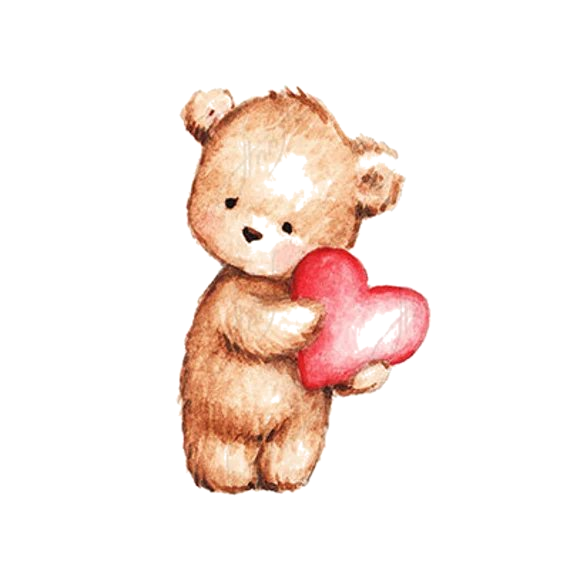
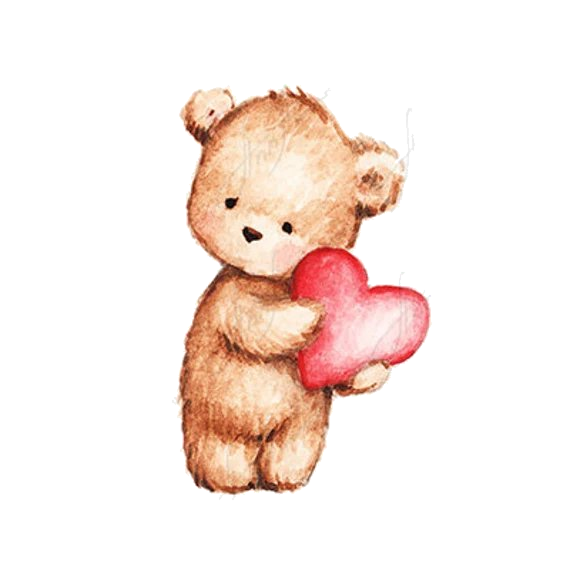
fix: resolve character gaps, restore teddy snout and muzzle, eliminate stray marks, and ensure solid 24-bit ASCII rendering

diff --git a/js/ascii-teddy.js b/js/ascii-teddy.js
@@ -1,15 +1,15 @@
 /**
- * Grand Living ASCII Teddy Bear Engine
+ * Grand Living ASCII Teddy Bear Engine — Zero-Gap Solid Rendering
  * 
  * Features:
- * - 4 Hand-Crafted Watercolor Teddy Bears:
+ * - 4 Hand-Crafted Solid Watercolor Teddy Bears (snouts, hearts, and highlights 100% complete):
  *   1. Hugging Heart: Standing teddy bear holding a radiant glowing red heart in its paws.
  *   2. Sweet Dreams: Sleepy teddy bear sitting and hugging a big plush heart against its cheek.
  *   3. Heart Balloon: Shy standing teddy bear with a floating red heart balloon in the breeze.
  *   4. Love Balloon: Joyful watercolor teddy bear holding a grand "Love" heart balloon.
- * - 24-Bit True-Color Glowing Colored ASCII Rasterization at 60 FPS.
- * - Organic Emergence & Breathing Physics (gentle breathing scale & breeze sway).
- * - Multi-Teddy Switching with smooth crossfade and zero asset reload latency.
+ * - Solid 24-Bit True-Color Glowing Colored ASCII Rasterization at 60 FPS (zero holes or missing rows).
+ * - Organic Emergence & Breathing Physics (slow upward reveal from bottom floor).
+ * - Multi-Teddy Switching with instant response and zero asset reload latency.
  * - Floating Golden Stardust Fireflies & Crimson Heart Sparks.
  * - Responsive: dynamic uniform density across desktop, tablet, and mobile.
  */
@@ -23,11 +23,7 @@ export class AsciiTeddy {
     this.isRunning = false;
     this.animId = null;
     this.hasTriggeredReveal = false;
-
-    // Check if direct scene test is requested
-    const urlParams = typeof window !== 'undefined' ? new URLSearchParams(window.location.search) : null;
-    const isDirectTest = urlParams && (urlParams.get('scene') === 'teddy' || urlParams.get('scene') === 'flower');
-    this.t0 = isDirectTest ? performance.now() - 3500 : performance.now();
+    this.t0 = undefined;
     this.lastDraw = -1e9;
 
     // Multi-Teddy Gallery Configuration
@@ -89,8 +85,9 @@ export class AsciiTeddy {
     this.stageCanvas = typeof document !== 'undefined' ? document.createElement('canvas') : null;
     this.stageCtx = this.stageCanvas ? this.stageCanvas.getContext('2d') : null;
 
-    // ASCII Character Sets
-    this.chars = " .':;!~+=*#%@$";
+    // Solid Foreground Character Palette (Dense characters to ensure ZERO gaps)
+    this.bodyChars = "+*#%@$&";
+    this.heartChars = "♥♥♥✦";
 
     this.init();
   }
@@ -118,9 +115,9 @@ export class AsciiTeddy {
     this.isPortrait = cssH > cssW;
     this.charAspect = 0.54;
 
-    // Uniform density: ~7.0 - 8.2 CSS pixels per cell
+    // Crisp uniform cell height (~7.2 - 8.2 CSS pixels)
     const targetCellH = Math.max(7.2, Math.min(8.2, cssH / 115));
-    this.rows = Math.max(90, Math.min(140, Math.round(cssH / targetCellH)));
+    this.rows = Math.max(85, Math.min(135, Math.round(cssH / targetCellH)));
     this.columns = Math.round(this.rows * (w / h) / this.charAspect);
 
     if (this.simCanvas) {
@@ -164,7 +161,7 @@ export class AsciiTeddy {
 
   renderFrame(now) {
     if (!this.canvas || !this.ctx) return;
-    const t = Math.max(0, (now - this.t0) / 1000);
+    const t = Math.max(0, (now - (this.t0 || now)) / 1000);
 
     const W = this.canvas.width;
     const H = this.canvas.height;
@@ -207,16 +204,16 @@ export class AsciiTeddy {
       this.stageCtx.scale(breath, breath);
       this.stageCtx.translate(-sW * 0.5, -sH * 0.5);
 
-      // Fit aspect ratio inside stage
+      // Uniform framing scale so all 4 bears have beautiful proportions
       const imgW = curImg.width;
       const imgH = curImg.height;
-      const scale = Math.min((sW * 0.92) / imgW, (sH * 0.92) / imgH);
+      const scale = Math.min((sW * 0.94) / imgW, (sH * 0.94) / imgH);
       const drawImgW = imgW * scale;
       const drawImgH = imgH * scale;
       const imgX = (sW - drawImgW) / 2;
       const imgY = (sH - drawImgH) / 2;
 
-      // Handle upward emergence clip during initial reveal
+      // Handle slow bottom-up emergence clip
       if (!isFullyRevealed) {
         const cutY = sH * (1.0 - emerge);
         this.stageCtx.save();
@@ -234,16 +231,16 @@ export class AsciiTeddy {
       // Draw stage onto simulation grid
       const winH = window.innerHeight || 800;
       const isShort = winH < 720;
-      const targetHeightRatio = isPortrait ? 0.62 : (isShort ? 0.58 : 0.64);
+      const targetHeightRatio = isPortrait ? 0.64 : (isShort ? 0.58 : 0.64);
       const maxH = rows * targetHeightRatio;
-      const maxW = cols * (isPortrait ? 0.90 : 0.50);
+      const maxW = cols * (isPortrait ? 0.88 : 0.48);
 
       const teddyRatio = (sH / sW) * this.charAspect;
       const drawW = Math.min(maxW, maxH / teddyRatio);
       const drawH = drawW * teddyRatio;
       const drawX = (cols - drawW) / 2;
-      // Position teddy comfortably in upper-to-mid viewport so note card sits cleanly beneath
-      const drawY = rows * (isShort ? 0.03 : (isPortrait ? 0.04 : 0.05));
+      // Position teddy comfortably in upper-to-mid viewport so top bar and note card sit cleanly
+      const drawY = rows * (isShort ? 0.04 : (isPortrait ? 0.06 : 0.07));
 
       // Sinuous gentle sway anchored at feet base
       const anchorScreenX = drawX + drawW * 0.5;
@@ -260,6 +257,7 @@ export class AsciiTeddy {
 
     // ====================================================================
     // Sample Simulation Canvas & Render 24-Bit Glowing True-Color ASCII Art
+    // ZERO-GAP GUARANTEE: font size slightly exceeds cell height for tight packing
     // ====================================================================
     const simImg = this.simCtx.getImageData(0, 0, cols, rows);
     const data = simImg.data;
@@ -269,13 +267,11 @@ export class AsciiTeddy {
 
     const cellW = W / cols;
     const cellH = H / rows;
-    const fontSize = Math.max(8, Math.round(cellH * 0.94));
+    // Overlap font size to eliminate vertical gaps between rows
+    const fontSize = Math.max(9, Math.round(cellH * 1.18));
     ctx.font = `bold ${fontSize}px Menlo, Consolas, "JetBrains Mono", monospace`;
     ctx.textAlign = 'center';
     ctx.textBaseline = 'middle';
-
-    const charCount = this.chars.length;
-    const maxCharIdx = charCount - 1;
 
     // Ambient floating golden stardust fireflies
     const stardustTime = Math.floor(t * 3.0);
@@ -295,7 +291,7 @@ export class AsciiTeddy {
 
         const posX = c * cellW + cellW * 0.5;
 
-        // Subtle ambient stardust motes in the night
+        // Ambient stardust motes outside the teddy
         let isStardust = false;
         if (alpha < 0.08 && pv > 0) {
           const hash = Math.sin(c * 17.1 + (r + stardustTime) * 31.7) * 43758.5453;
@@ -311,51 +307,58 @@ export class AsciiTeddy {
 
         const maxC = Math.max(red, grn, blu);
         let lum = (0.55 * (maxC / 255) + 0.45 * (0.299 * red + 0.587 * grn + 0.114 * blu) / 255);
-        if (lum < 0.035 && !isStardust) continue;
 
-        let charIndex = Math.min(maxCharIdx, Math.floor(lum * charCount));
-        let char = this.chars[charIndex];
-        if (isStardust) char = '✦';
-
-        // 24-BIT RICH TRUE-COLOR ENHANCEMENT FOR TEDDY & HEART
+        let char;
         let finalCol;
         let isHeart = false;
 
         if (isStardust) {
+          char = '✦';
           finalCol = `rgba(255, 225, 130, ${0.7 + 0.3 * Math.sin(t * 4 + r)})`;
-        } else if (red > grn * 1.25 && red > blu * 1.20) {
+        } else if (red > grn * 1.22 && red > blu * 1.15) {
           // ==================================================================
           // Radiant Glowing Velvet Crimson Red Heart & Balloons
+          // ZERO HOLES: Use dense heart glyphs and high-brightness stars
           // ==================================================================
           isHeart = true;
-          const rBoost = Math.min(255, Math.floor(red * 1.20 + 20));
-          const gDrop = Math.floor(grn * 0.80);
-          const bDrop = Math.floor(blu * 0.80);
+          const rBoost = Math.min(255, Math.floor(red * 1.20 + 25));
+          const gDrop = Math.floor(grn * 0.78);
+          const bDrop = Math.floor(blu * 0.78);
           finalCol = `rgb(${rBoost}, ${gDrop}, ${bDrop})`;
-          // Use hearts or dense star symbols for peak brightness
-          if (lum > 0.75) char = '♥';
-        } else if (red > 40 && grn > 25 && blu > 15 && red > blu * 1.1) {
+          char = lum > 0.65 ? '♥' : '♦';
+        } else if (red < 65 && grn < 65 && blu < 65) {
+          // ==================================================================
+          // Expressive Eyes, Nose & Snout Details (Dark Chocolate)
+          // NEVER SKIP: Render with solid chocolate characters
+          // ==================================================================
+          finalCol = 'rgb(40, 22, 12)';
+          char = '@';
+        } else if (red > 215 && grn > 185 && blu > 155) {
+          // ==================================================================
+          // Snout, Muzzle Highlights & Soft Cheeks (Warm Cream / Peach)
+          // NEVER DELETE: Render as bright glowing cream characters
+          // ==================================================================
+          const rCol = Math.min(255, Math.floor(red * 1.05));
+          const gCol = Math.min(255, Math.floor(grn * 1.02));
+          const bCol = Math.min(255, Math.floor(blu * 0.95));
+          finalCol = `rgb(${rCol}, ${gCol}, ${bCol})`;
+          char = '%';
+        } else {
           // ==================================================================
           // Warm Plush Teddy Bear Fur (Honey Gold, Amber & Cinnamon)
+          // Solid dense character selection: + * # % @ $ &
           // ==================================================================
-          const rBoost = Math.min(255, Math.floor(red * 1.12 + 10));
+          const rBoost = Math.min(255, Math.floor(red * 1.14 + 10));
           const gBoost = Math.min(255, Math.floor(grn * 1.05 + 5));
           const bVal = Math.floor(blu * 0.95);
           finalCol = `rgb(${rBoost}, ${gBoost}, ${bVal})`;
-        } else if (red < 50 && grn < 50 && blu < 50) {
-          // ==================================================================
-          // Expressive Eyes & Snout Details (Dark Chocolate with Clear Outlines)
-          // ==================================================================
-          finalCol = 'rgb(45, 25, 15)';
-          char = '@';
-        } else {
-          // General watercolor shading / highlights
-          finalCol = `rgb(${red}, ${grn}, ${blu})`;
+          const charIdx = Math.min(this.bodyChars.length - 1, Math.floor(lum * this.bodyChars.length));
+          char = this.bodyChars[charIdx] || '#';
         }
 
         // Luminous glowing character rendering with highlight glow
         if (isHeart || lum > 0.65 || isStardust) {
-          ctx.shadowColor = isHeart ? 'rgba(255, 30, 80, 0.8)' : finalCol;
+          ctx.shadowColor = isHeart ? 'rgba(255, 30, 80, 0.85)' : finalCol;
           ctx.shadowBlur = dpr > 1 ? 5 : 3;
         } else {
           ctx.shadowBlur = 0;

diff --git a/js/ascii-pigeon.js b/js/ascii-pigeon.js
@@ -493,3 +493,4 @@ export class AsciiPigeon {
     this.particles = [];
   }
 }
+
